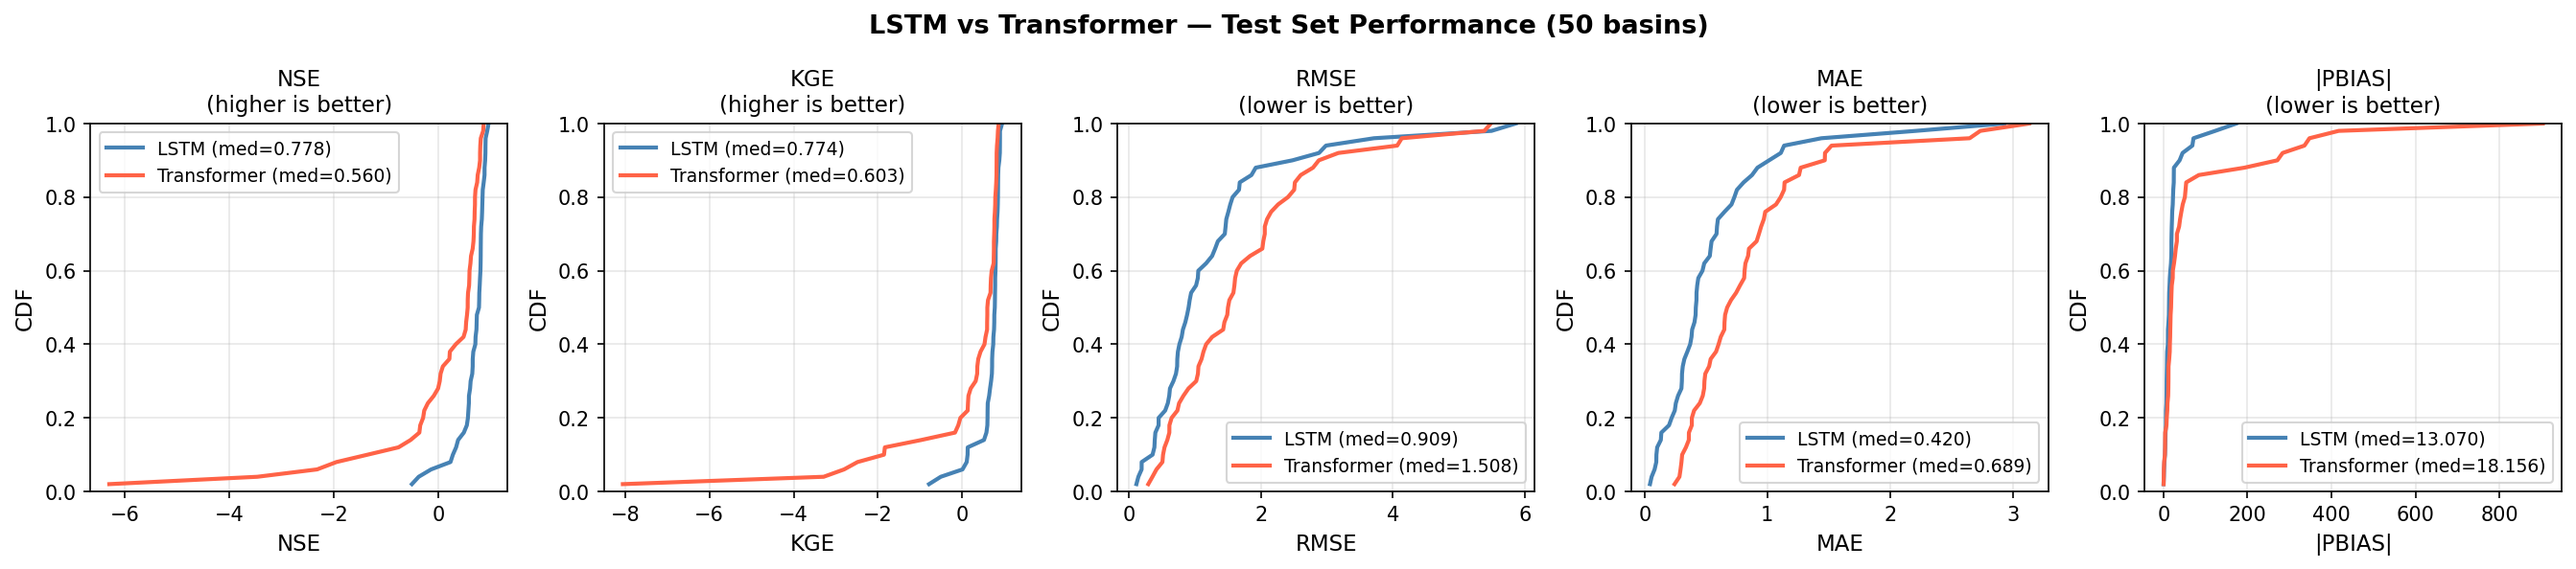
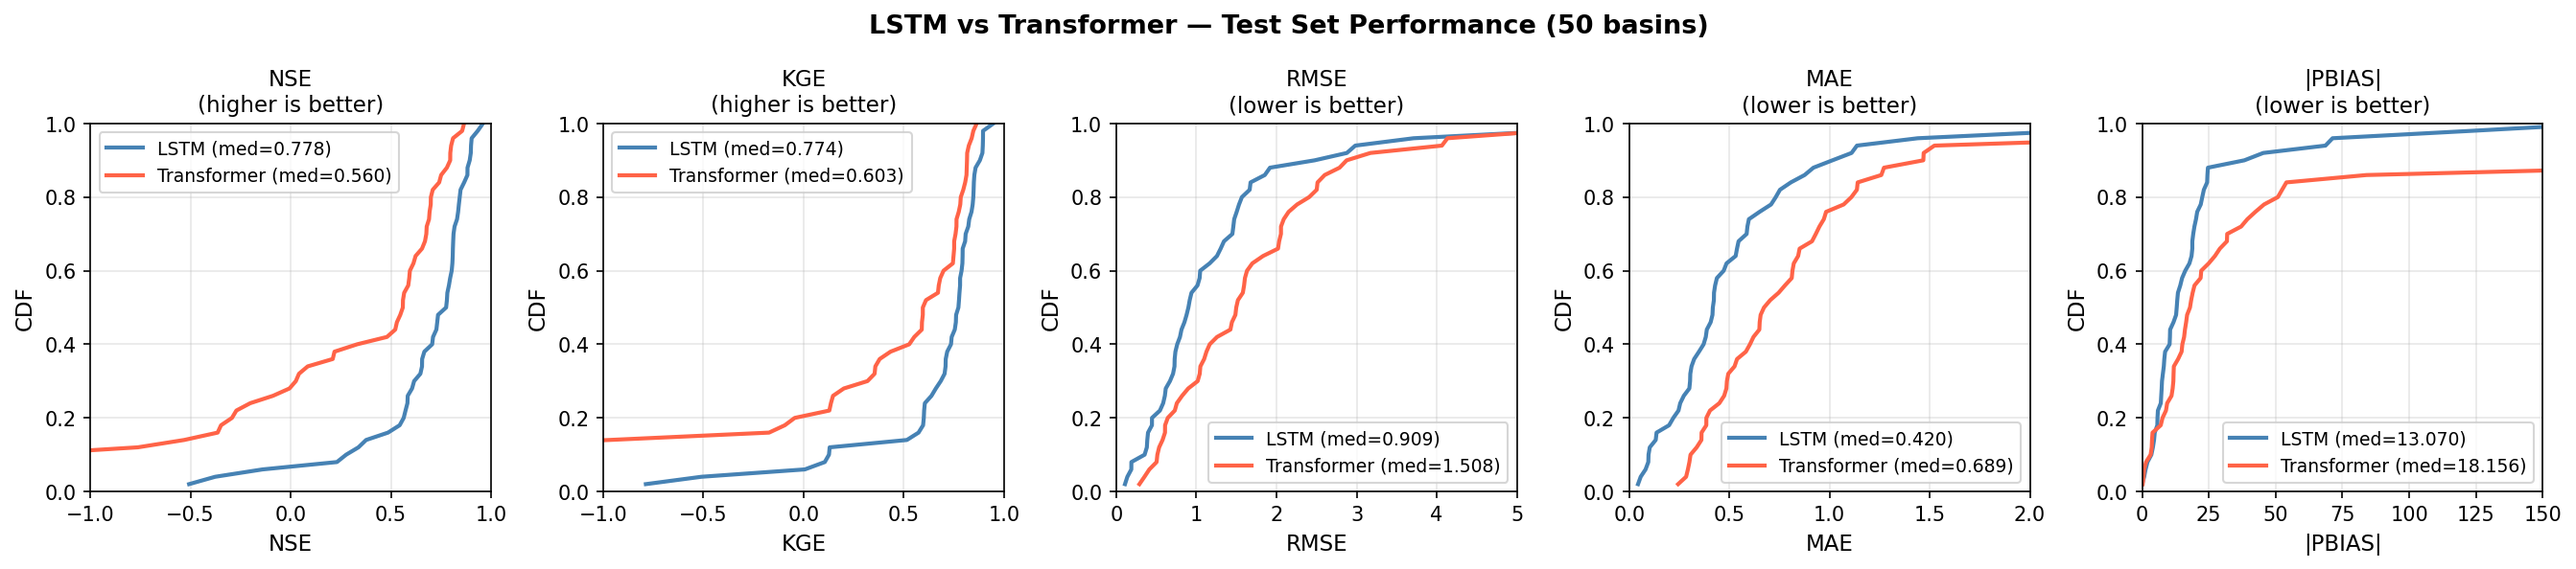
Fix CDF xlims to clip outlier basin

diff --git a/plot_comparison.py b/plot_comparison.py
@@ -9,16 +9,16 @@ lstm_df = pd.read_csv("outputs/eval_test_lstm.csv", index_col="basin_id")
 trans_df = pd.read_csv("outputs/eval_test_transformer.csv", index_col="basin_id")
 
 metrics = {
-    "nse":   ("NSE",   "higher is better"),
-    "kge":   ("KGE",   "higher is better"),
-    "rmse":  ("RMSE",  "lower is better"),
-    "mae":   ("MAE",   "lower is better"),
-    "pbias": ("|PBIAS|", "lower is better"),
+    "nse":   ("NSE",     "higher is better", (-1,   1)),
+    "kge":   ("KGE",     "higher is better", (-1,   1)),
+    "rmse":  ("RMSE",    "lower is better",  ( 0,   5)),
+    "mae":   ("MAE",     "lower is better",  ( 0,   2)),
+    "pbias": ("|PBIAS|", "lower is better",  ( 0, 150)),
 }
 
 fig, axes = plt.subplots(1, len(metrics), figsize=(18, 4))
 
-for ax, (col, (label, note)) in zip(axes, metrics.items()):
+for ax, (col, (label, note, xlim)) in zip(axes, metrics.items()):
     lstm_vals  = lstm_df[col].abs() if col == "pbias" else lstm_df[col]
     trans_vals = trans_df[col].abs() if col == "pbias" else trans_df[col]
 
@@ -36,6 +36,7 @@ for ax, (col, (label, note)) in zip(axes, metrics.items()):
     ax.set_title(f"{label}\n({note})", fontsize=11)
     ax.legend(fontsize=9)
     ax.grid(True, alpha=0.3)
+    ax.set_xlim(xlim)
     ax.set_ylim(0, 1)
 
 fig.suptitle("LSTM vs Transformer — Test Set Performance (50 basins)", fontsize=13, fontweight="bold")
